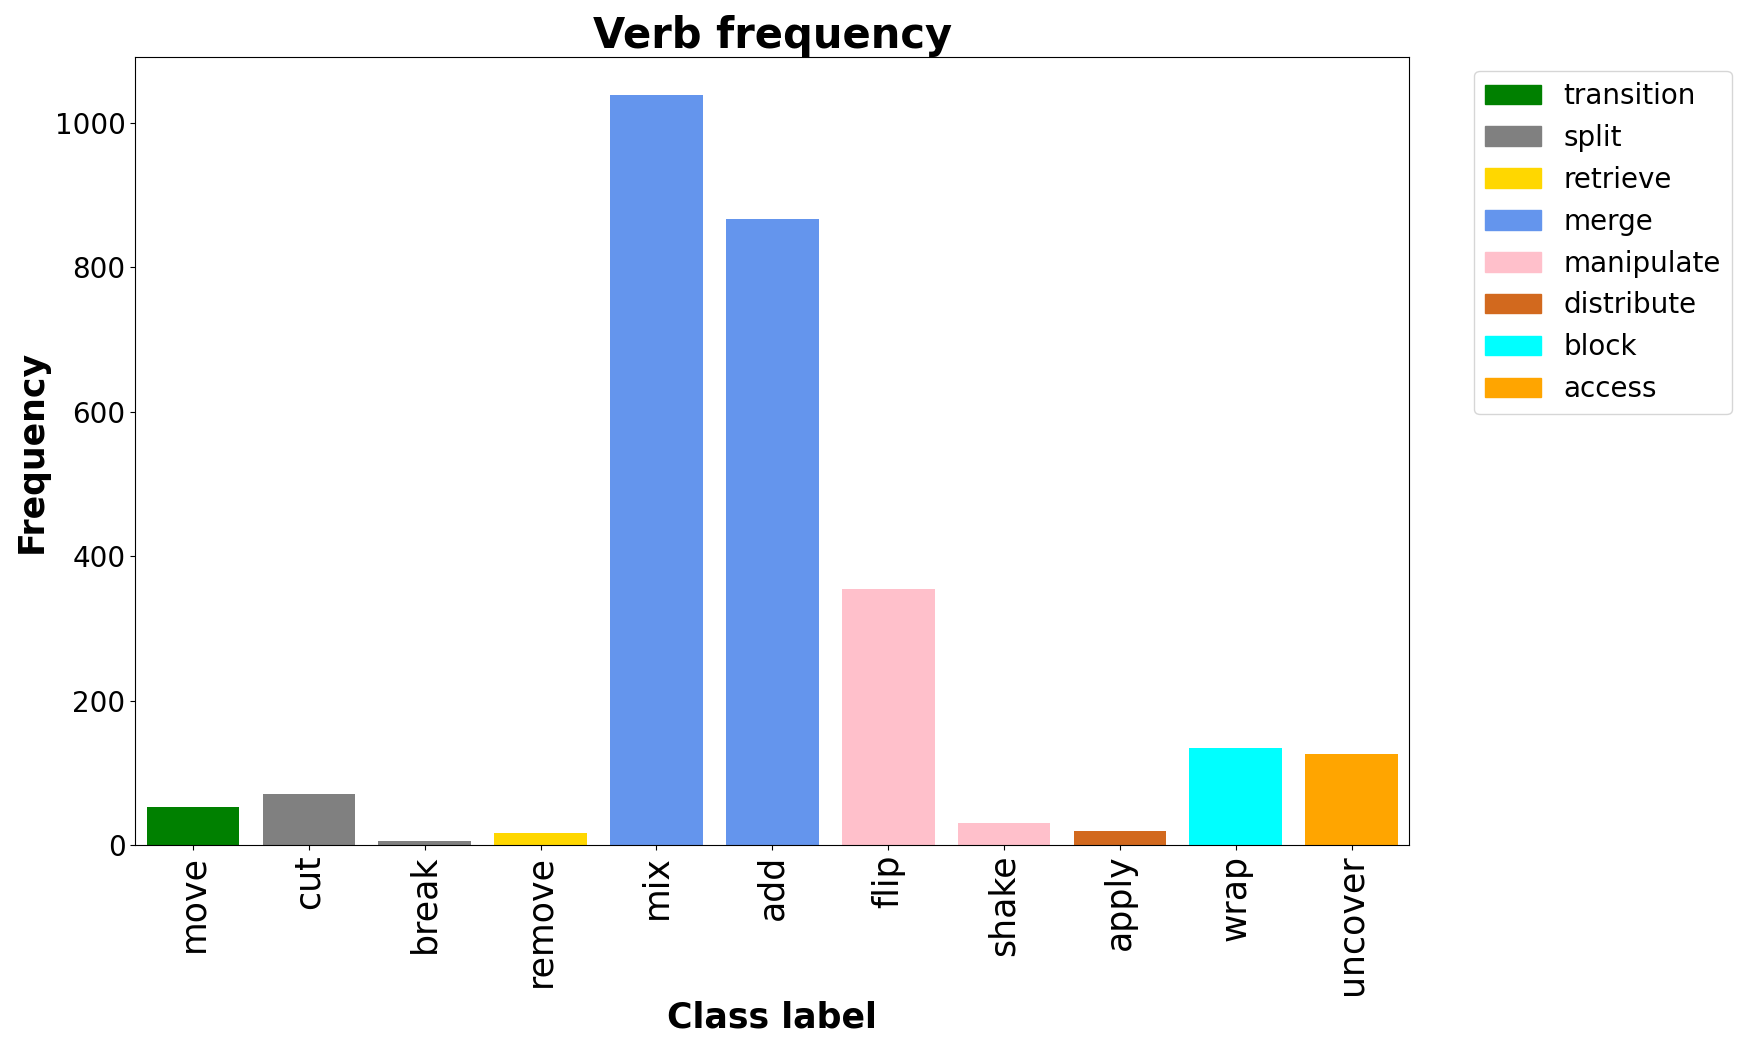
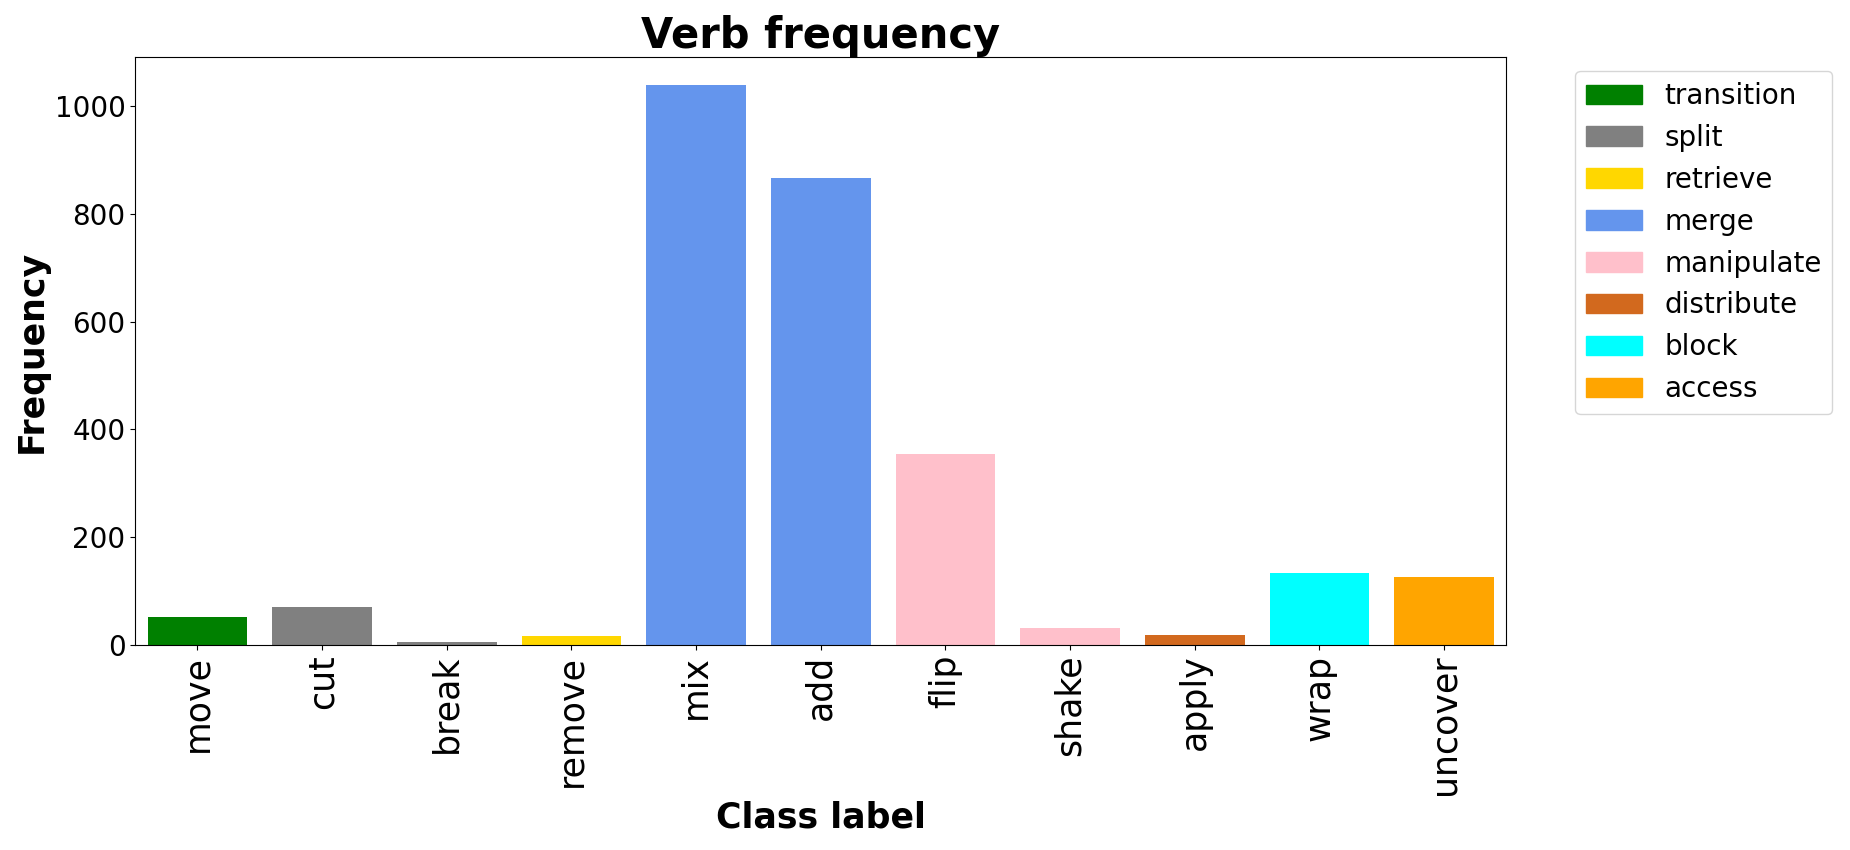
Correction to some plots

diff --git a/plot_frequencies.py b/plot_frequencies.py
@@ -73,10 +73,10 @@ def plot_histogram(annotations_file, label_info_file, args):
     plt.yticks(fontsize='20')
     plt.xticks(ticks=xticks, labels=label_names, rotation='vertical', fontsize='25')
     plt.xlim(-0.5, xticks[-1]+0.5)
-    plt.title('Verb frequency (Corrected)', fontweight='bold', fontsize='30')
+    plt.title('Verb frequency', fontweight='bold', fontsize='30')
     plt.ylabel('Frequency', fontweight='bold', fontsize='25')
     plt.xlabel('Class label', fontweight='bold', fontsize='25')
-    fig.set_size_inches(18.5, 10.5)
+    fig.set_size_inches(18.5, 8.5)
 
     if "hide_legend" not in args:
         # Plot legend
